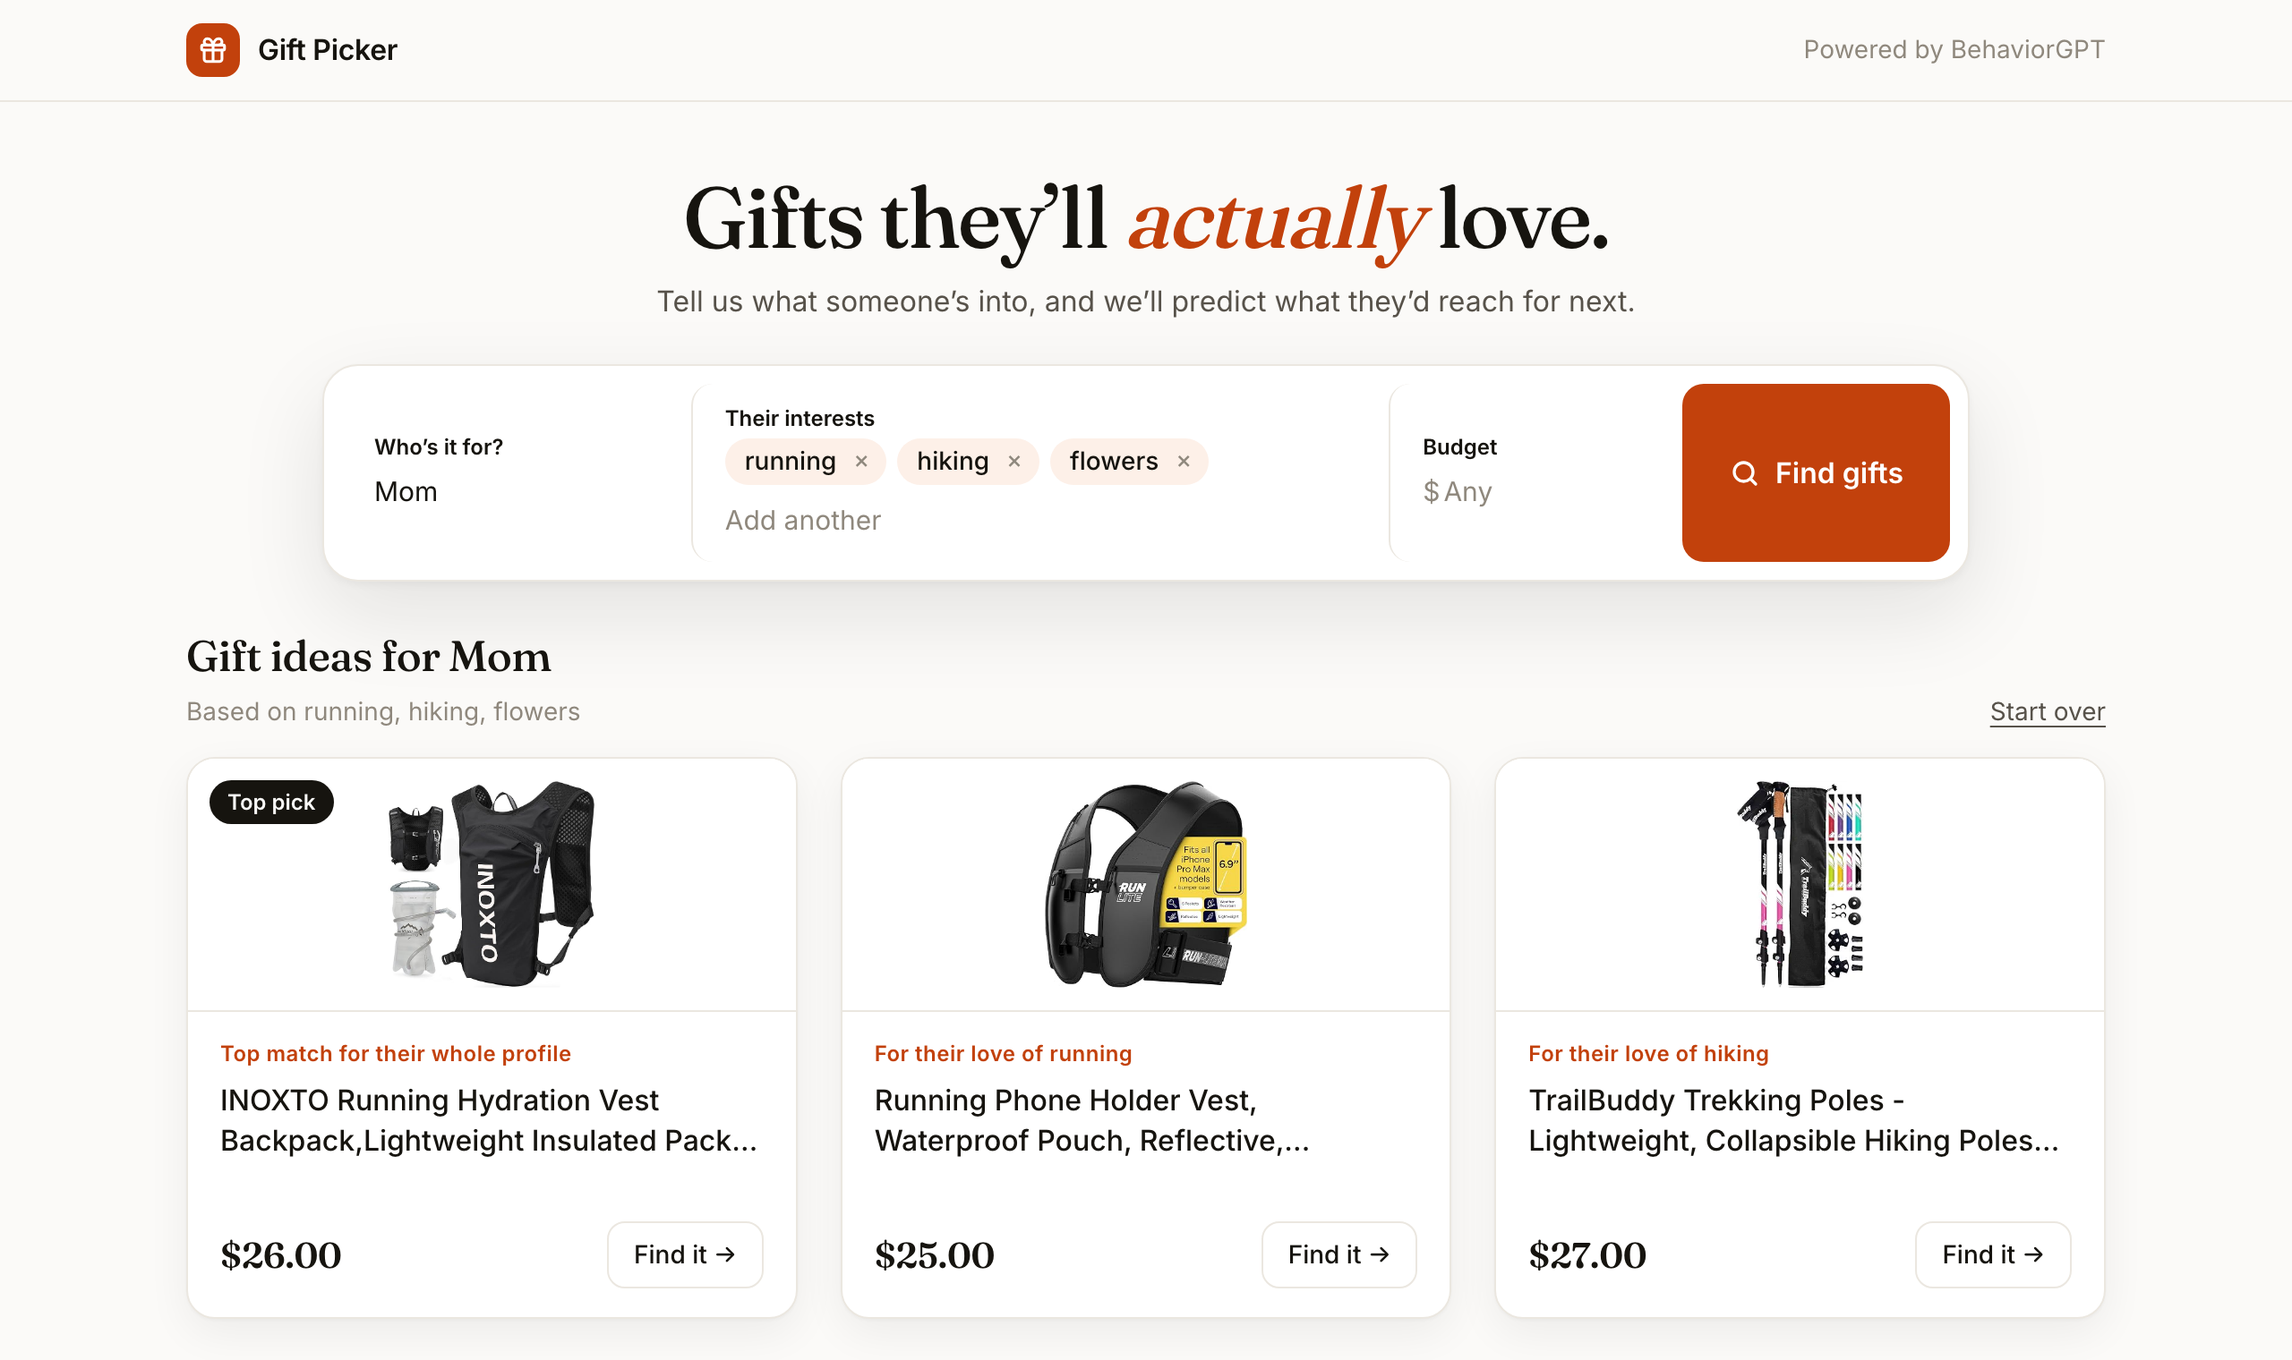
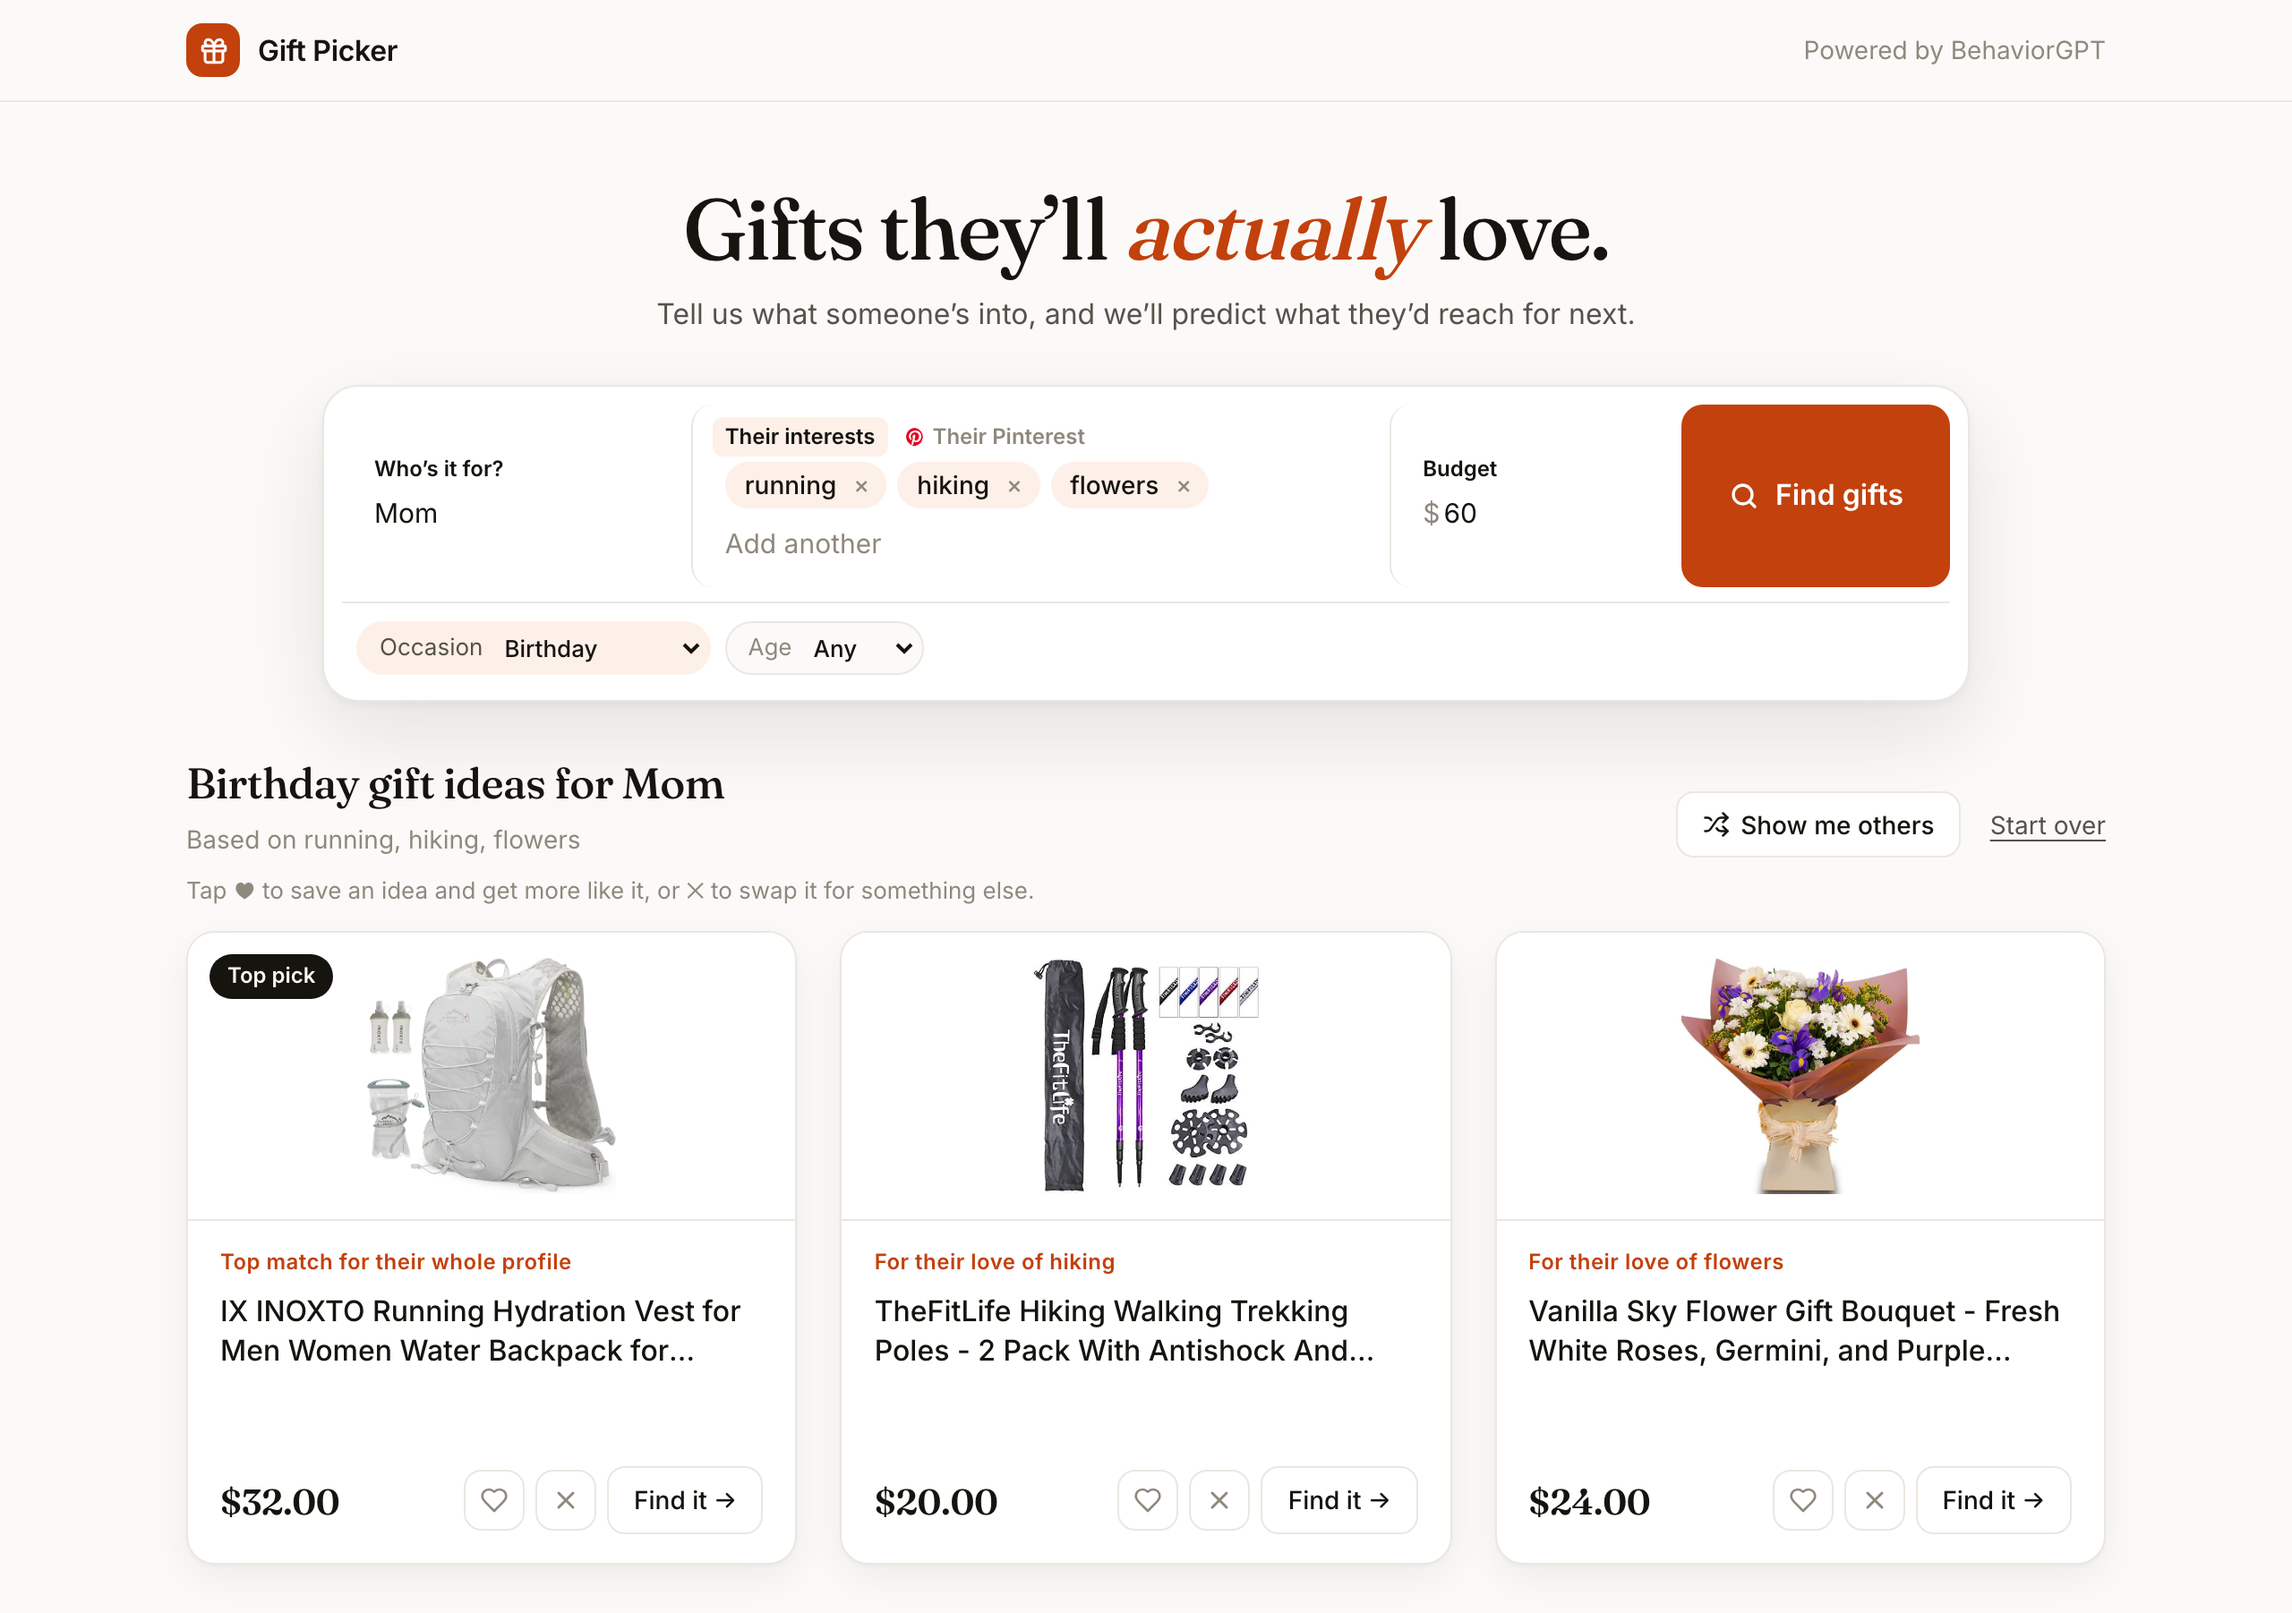
Update README screenshot to the current design

diff --git a/README.md b/README.md
@@ -4,7 +4,7 @@ Tell it what someone loves ("running, hiking, flowers"), or paste their Pinteres
 
 Every recommendation comes from BehaviorGPT. There is no LLM in the loop.
 
-![Gift ideas for Mom: running, hiking, flowers](docs/screenshots/picks.png)
+![Birthday gift ideas for Mom: running, hiking, flowers, under $60](docs/screenshots/picks.png)
 
 It is a small, complete example of building on the BehaviorGPT SDK: no catalog to upload, no user data. Just a synthetic history, recommendations and personalized search against one of the pre-embedded catalogs.
 
